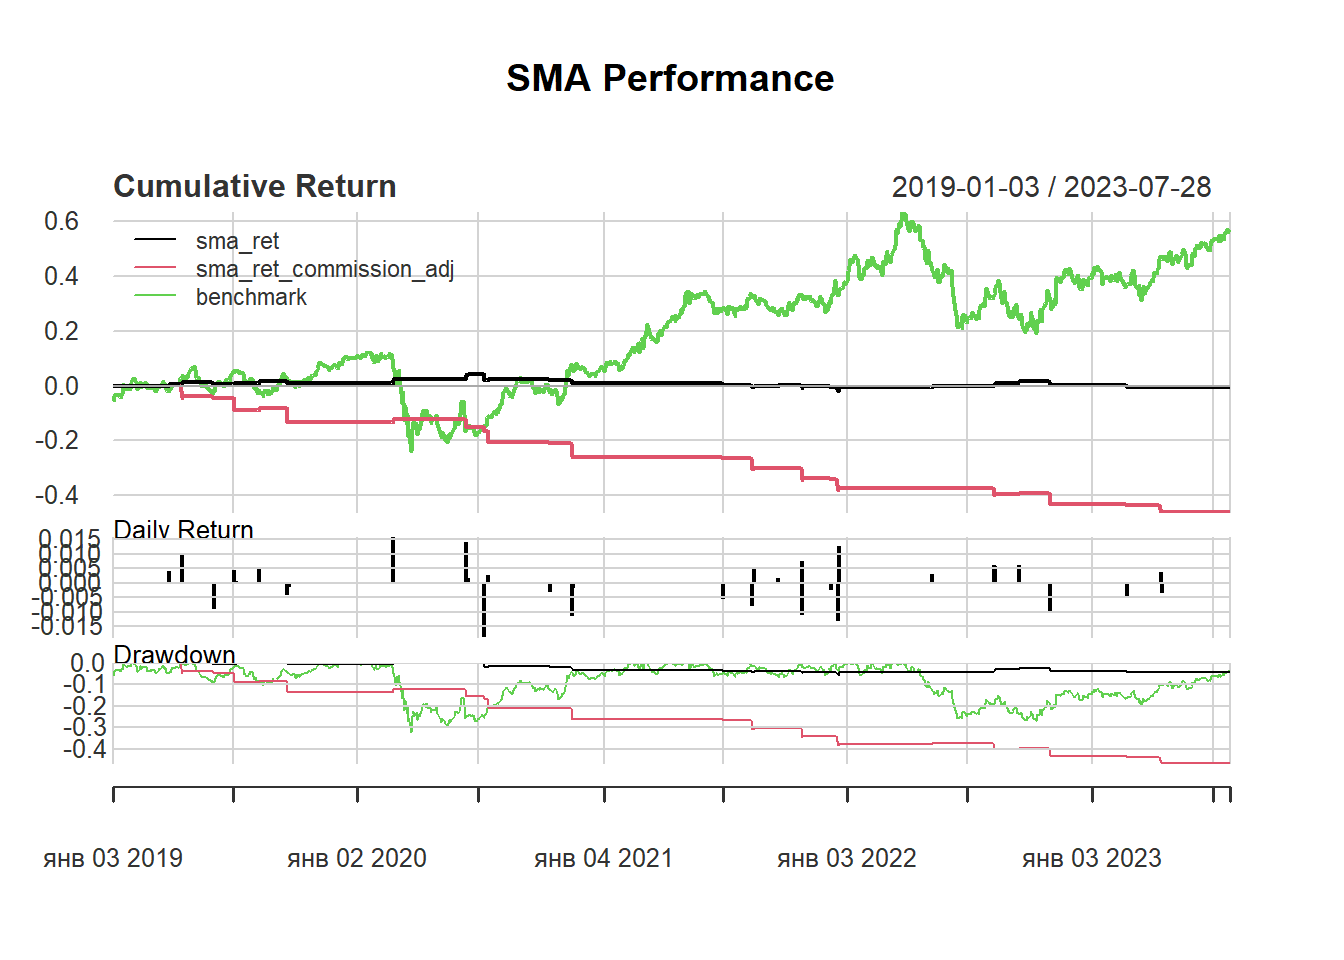
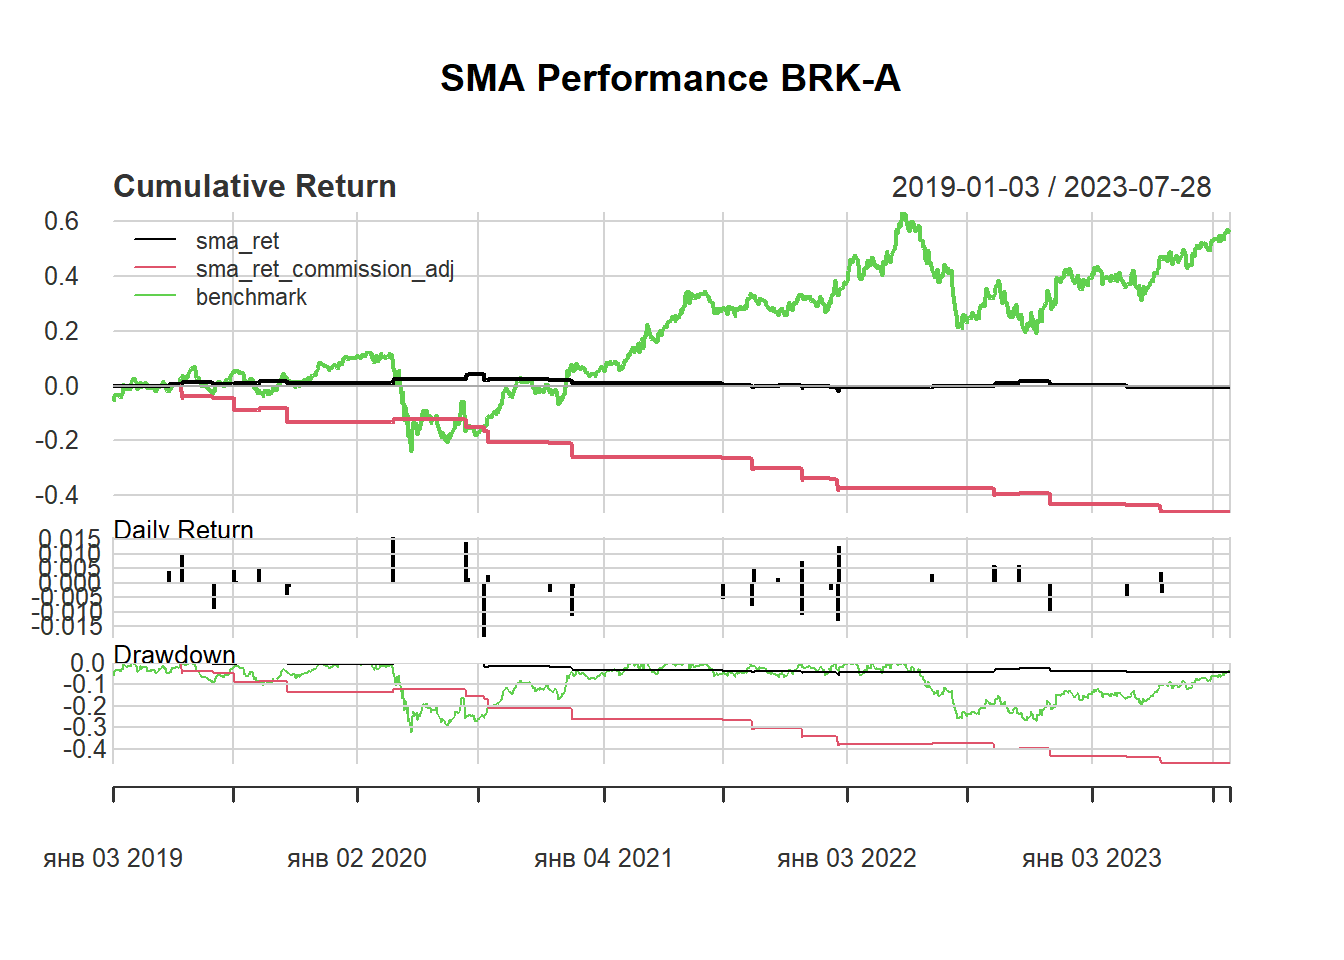
i hate this STOCK

Changed region(s): [[0.3125, 0.0625, 0.6875, 0.0938]]

diff --git a/docs/results.html b/docs/results.html
@@ -299,10 +299,11 @@ code span.wa { color: #60a0b0; font-weight: bold; font-style: italic; } /* Warni
 <span id="cb7-25"><a href="#cb7-25" aria-hidden="true" tabindex="-1"></a>    STOCKS[[st]]<span class="sc">$</span>sma_ret_commission_adj <span class="ot">&lt;-</span> <span class="fu">ifelse</span>((STOCKS[[st]]<span class="sc">$</span>sma_ts <span class="sc">==</span> <span class="dv">1</span> <span class="sc">|</span> STOCKS[[st]]<span class="sc">$</span>sma_ts <span class="sc">==</span> <span class="sc">-</span><span class="dv">1</span>) <span class="sc">&amp;</span> STOCKS[[st]]<span class="sc">$</span>sma_strat <span class="sc">!=</span> <span class="fu">Lag</span>(STOCKS[[st]]<span class="sc">$</span>sma_ts), (STOCKS[[st]]<span class="sc">$</span>benchmark <span class="sc">-</span> <span class="fl">0.05</span>) <span class="sc">*</span> STOCKS[[st]]<span class="sc">$</span>sma_strat, STOCKS[[st]]<span class="sc">$</span>benchmark<span class="sc">*</span>STOCKS[[st]]<span class="sc">$</span>sma_strat)</span>
 <span id="cb7-26"><a href="#cb7-26" aria-hidden="true" tabindex="-1"></a>    <span class="co">#STOCKS[[st]]$sma_comp &lt;- cbind(sma_ret, sma_ret_commission_adj, benchmark)</span></span>
 <span id="cb7-27"><a href="#cb7-27" aria-hidden="true" tabindex="-1"></a>    <span class="co">#colnames(sma_comp) &lt;- c('SMA','SMA Commission Adj','Benchmark')</span></span>
-<span id="cb7-28"><a href="#cb7-28" aria-hidden="true" tabindex="-1"></a>    <span class="fu">charts.PerformanceSummary</span>(STOCKS[[st]][,<span class="fu">c</span>(<span class="st">"sma_ret"</span>, <span class="st">"sma_ret_commission_adj"</span>, <span class="st">"benchmark"</span>)], <span class="at">main =</span> <span class="st">'SMA Performance'</span>)</span>
-<span id="cb7-29"><a href="#cb7-29" aria-hidden="true" tabindex="-1"></a>    <span class="fu">print</span>(<span class="fu">table.AnnualizedReturns</span>(STOCKS[[st]][,<span class="fu">c</span>(<span class="st">"sma_ret"</span>, <span class="st">"sma_ret_commission_adj"</span>, <span class="st">"benchmark"</span>)]))</span>
-<span id="cb7-30"><a href="#cb7-30" aria-hidden="true" tabindex="-1"></a>    </span>
-<span id="cb7-31"><a href="#cb7-31" aria-hidden="true" tabindex="-1"></a>}</span></code><button title="Copy to Clipboard" class="code-copy-button"><i class="bi"></i></button></pre></div>
+<span id="cb7-28"><a href="#cb7-28" aria-hidden="true" tabindex="-1"></a>    <span class="fu">charts.PerformanceSummary</span>(STOCKS[[st]][,<span class="fu">c</span>(<span class="st">"sma_ret"</span>, <span class="st">"sma_ret_commission_adj"</span>, <span class="st">"benchmark"</span>)], </span>
+<span id="cb7-29"><a href="#cb7-29" aria-hidden="true" tabindex="-1"></a>                              <span class="at">main =</span> <span class="fu">paste</span>(<span class="st">'SMA Performance'</span>, tickers[st]))</span>
+<span id="cb7-30"><a href="#cb7-30" aria-hidden="true" tabindex="-1"></a>    <span class="fu">print</span>(<span class="fu">table.AnnualizedReturns</span>(STOCKS[[st]][,<span class="fu">c</span>(<span class="st">"sma_ret"</span>, <span class="st">"sma_ret_commission_adj"</span>, <span class="st">"benchmark"</span>)]))</span>
+<span id="cb7-31"><a href="#cb7-31" aria-hidden="true" tabindex="-1"></a>    </span>
+<span id="cb7-32"><a href="#cb7-32" aria-hidden="true" tabindex="-1"></a>}</span></code><button title="Copy to Clipboard" class="code-copy-button"><i class="bi"></i></button></pre></div>
 <div class="cell-output-display">
 <p><img src="results_files/figure-html/unnamed-chunk-7-1.png" class="img-fluid" width="672"></p>
 </div>
